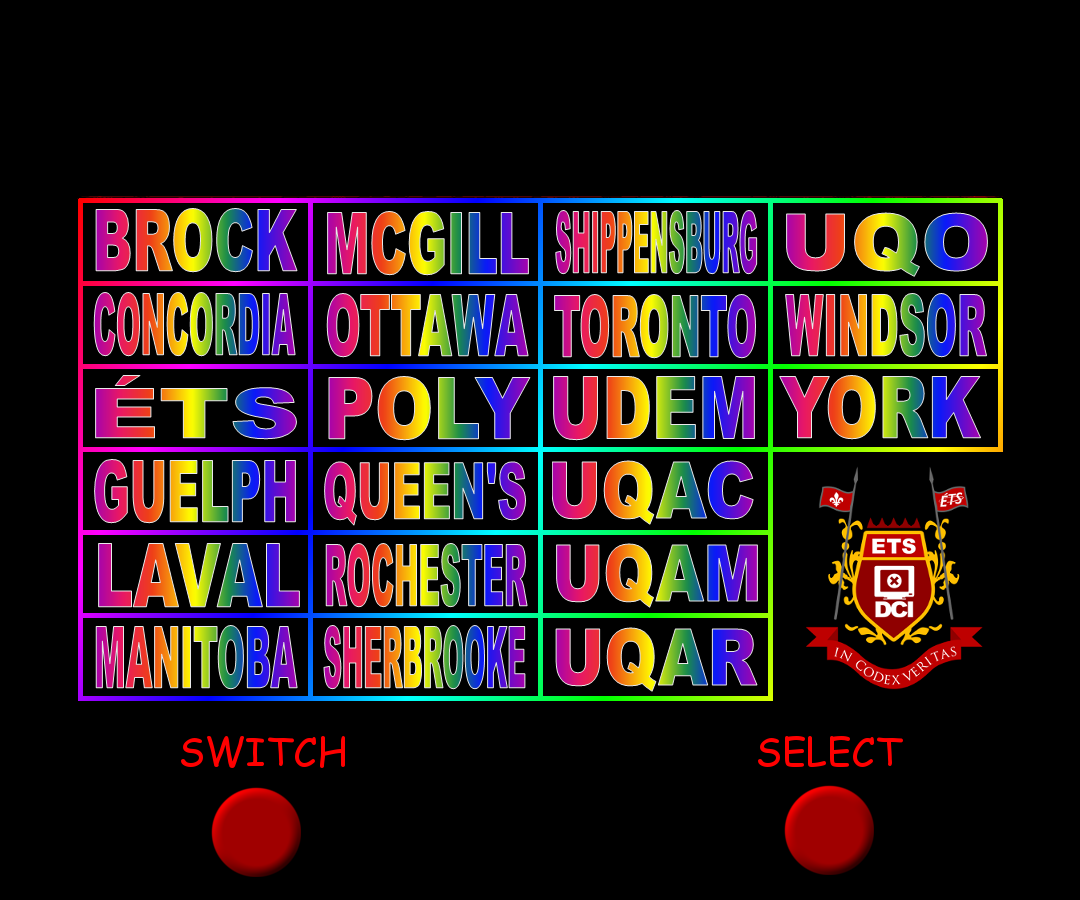
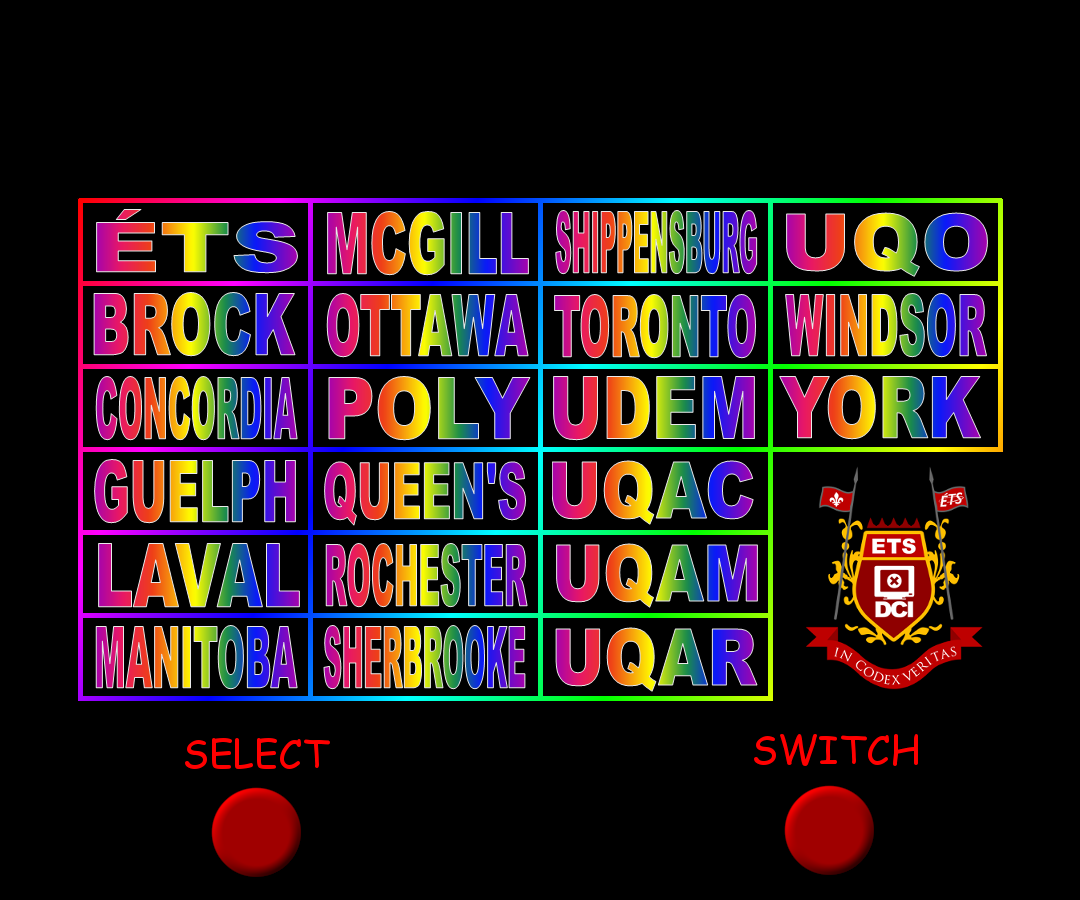
Main menu pas mal terminé

Changed region(s): [[0.0917, 0.2178, 0.275, 0.4978], [0.1528, 0.8089, 0.3361, 0.8711], [0.7028, 0.8089, 0.8556, 0.8711]]

diff --git a/menus/mainmenu.py b/menus/mainmenu.py
@@ -12,10 +12,14 @@ class MainMenu(Surface):
                   'images/menus/top/fire4.png']
     background_file = 'images/menus/mainmenu/mainmenu.png'
     star_file = 'images/menus/mainmenu/star.png'
+    back1_file = 'images/menus/mainmenu/back1.png'
+    back2_file = 'images/menus/mainmenu/back2.png'
 
     fire_images = []
     background_image = None
     star_image = None
+    back1_image = None
+    back2_image = None
 
     column_selected = False
     column_id = 0
@@ -24,7 +28,7 @@ class MainMenu(Surface):
     switch = False
     select = False
 
-    schools = [['brock', 'concordia', 'ets', 'guelph', 'laval', 'manitoba'],
+    schools = [['ets', 'brock', 'concordia', 'guelph', 'laval', 'manitoba'],
                ['mcgill', 'ottawa', 'poly', 'queens', 'rochester', 'sherbrooke'],
                ['shippensburg', 'toronto', 'udem', 'uqac', 'uqam', 'uqar'],
                ['uqo', 'windsor', 'york']]
@@ -34,7 +38,7 @@ class MainMenu(Surface):
         self.width, self.height = size
         self.game = game
         self._load_images()
-        self.font = pygame.font.SysFont("Comic Sans MS", 60)
+        self.font = pygame.font.SysFont("Comic Sans MS", int(0.09 * self.width))
         self.select_column_text = self.font.render("Select column", 1, (255, 255, 0))
         self.select_school_text = self.font.render("Select school", 1, (255, 255, 0))
 
@@ -43,7 +47,7 @@ class MainMenu(Surface):
         self.column_id = 0
         self.row_id = 0
 
-    def update(self, switch, select):
+    def update(self, select, switch):
         if switch:
             self.switch = True
         elif select:
@@ -52,36 +56,45 @@ class MainMenu(Surface):
             if not self.column_selected:
                 self.column_id = (self.column_id + 1) % len(self.schools)
             else:
-                self.row_id = (self.row_id + 1) % len(self.schools[self.column_id])
+                self.row_id = (self.row_id + 1) % (len(self.schools[self.column_id]) + 1)
             self.switch = False
         elif self.select:
             if not self.column_selected:
                 self.column_selected = True
                 self.select = False
             else:
-                school = self.schools[self.column_id][self.row_id]
-                self.reset()
-                self.game.start_game(school)
+                if self.row_id == len(self.schools[self.column_id]):
+                    self.column_selected = False
+                    self.select = False
+                    self.row_id = 0
+                else:
+                    school = self.schools[self.column_id][self.row_id]
+                    self.reset()
+                    self.game.start_game(school)
 
     def render(self):
         self.blit(self.background_image, self.background_image.get_rect())
 
+        ###################################### FEU ###############################
         fire = self.fire_images[(pygame.time.get_ticks() / 150) % len(self.fire_files)]
         rect = fire.get_rect()
         draw_pos = fire.get_rect().move(int(self.width * 0.07), int(0.15 * self.height))
         self.blit(fire, draw_pos)
 
+        ################################### Étoiles ##############################
         if ((pygame.time.get_ticks()) / 300) % 2 == 0:
             self.blit(self.star_image, self.star_image.get_rect().move(int(self.width * 0.07), int(self.height * 0.04)))
 
         if ((pygame.time.get_ticks()) / 300) % 2 == 1:
             self.blit(self.star_image, self.star_image.get_rect().move(int(self.width * 0.84), int(self.height * 0.04)))
 
+        #################################### Titre ################################
         if not self.column_selected:
             self.blit(self.select_column_text, self.select_column_text.get_rect().move(int(self.width * 0.22), int(self.height * 0.02)))
         else:
             self.blit(self.select_school_text, self.select_school_text.get_rect().move(int(self.width * 0.22), int(self.height * 0.02)))
 
+        ############################### Selection colonne #########################
         if not self.column_selected:
             pygame.draw.rect(self,
                              (255, 255, 0),
@@ -90,14 +103,20 @@ class MainMenu(Surface):
                                          (0.213 * self.width,
                                           self.height * 0.0925 * len(self.schools[self.column_id]))),
                              10)
+        ############################### Selection ecole ###########################
         else:
-            pygame.draw.rect(self,
-                             (255, 255, 0),
-                             pygame.Rect((0.075 * self.width + 0.213 * self.width * self.column_id,
-                                          0.224 * self.height + 0.0925 * self.height * self.row_id),
-                                         (0.213 * self.width,
-                                          0.0925 * self.height)),
-                             10)
+            if self.row_id == len(self.schools[self.column_id]):
+                self.blit(self.back2_image, self.back2_image.get_rect().move(int(self.width * 0.4), int(self.height * 0.82)))
+            else:
+                pygame.draw.rect(self,
+                                 (255, 255, 0),
+                                 pygame.Rect((0.075 * self.width + 0.213 * self.width * self.column_id,
+                                              0.224 * self.height + 0.0925 * self.height * self.row_id),
+                                             (0.213 * self.width,
+                                              0.0925 * self.height)),
+                                 10)
+                self.blit(self.back1_image, self.back1_image.get_rect().move(int(self.width * 0.4), int(self.height * 0.82)))
+
 
         return self
 
@@ -105,6 +124,7 @@ class MainMenu(Surface):
         self._load_background()
         self._load_fire()
         self._load_star()
+        self._load_back()
 
     def _load_fire(self):
         for f in self.fire_files:
@@ -128,3 +148,22 @@ class MainMenu(Surface):
         width2 = int((width1 / float(height1)) * height2)
 
         self.star_image = pygame.transform.scale(self.star_image, (width2, height2))
+
+    def _load_back(self):
+        self.back1_image = pygame.image.load(self.back1_file).convert_alpha()
+        height1 = self.back1_image.get_height()
+        width1 = self.back1_image.get_width()
+
+        height2 = int(self.height * 0.12)
+        width2 = int((width1 / float(height1)) * height2)
+
+        self.back1_image = pygame.transform.scale(self.back1_image, (width2, height2))
+
+        self.back2_image = pygame.image.load(self.back2_file).convert_alpha()
+        height1 = self.back2_image.get_height()
+        width1 = self.back2_image.get_width()
+
+        height2 = int(self.height * 0.12)
+        width2 = int((width1 / float(height1)) * height2)
+
+        self.back2_image = pygame.transform.scale(self.back2_image, (width2, height2))

diff --git a/player.py b/player.py
@@ -68,7 +68,7 @@ class Player(Sprite):
         self.speed = speed
 
     def increment_speed(self):
-        self.speed *= 1.1
+        self.speed *= 1.3
 
     def blit(self):
         draw_pos = self.images[self.orientation][self.image_id].get_rect().move(self.x, self.y)

diff --git a/projetX.py b/projetX.py
@@ -13,8 +13,8 @@ from menus.mainmenu import MainMenu
 from scoremanager import ScoreManager
 
 
-WINDOW_WIDTH = 720#1080
-WINDOW_HEIGHT = 600#900
+WINDOW_WIDTH = 1080
+WINDOW_HEIGHT = 900
 GAME_SIZE = int(WINDOW_WIDTH * 0.70)
 FPS = 60
 LEFT_KEY = pygame.K_LEFT
